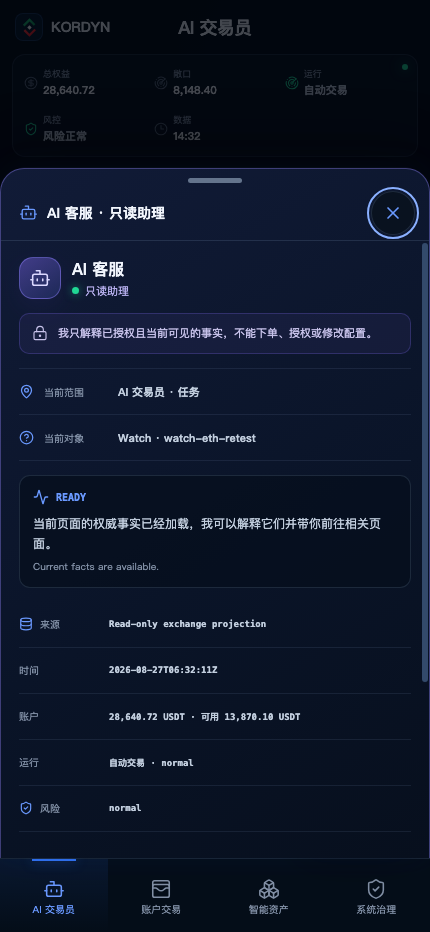
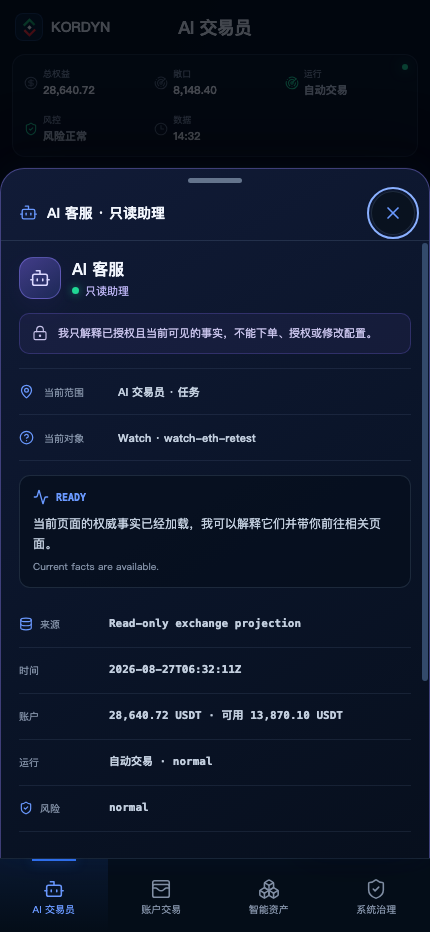
fix: complete AI support state and mobile readability

diff --git a/src/kordynV2/shell/AiSupport.jsx b/src/kordynV2/shell/AiSupport.jsx
@@ -31,7 +31,14 @@ const STATE_EXPLANATIONS = Object.freeze({
   forbidden: "当前身份无权读取这个范围。我不会展示受限对象或推断隐藏事实。",
   disabled: "当前状态禁用了页面能力。我可以解释限制，但不会绕过它。",
   loading: "权威事实仍在加载。我不会把空白解释为零或正常。",
-  not_loaded: "权威事实尚未加载。我不会根据缺失内容生成结论。"
+  not_loaded: "权威事实尚未加载。我不会根据缺失内容生成结论。",
+  empty: "当前范围没有可解释的权威事实。我不会把空结果解释为零或正常。",
+  processing: "系统正在处理当前请求。我会保留当前状态，但不会把处理中说成已完成。",
+  approval: "当前事项需要授权确认。在你确认前我只解释原因和边界，不会代你批准。",
+  partial: "当前请求只返回了部分权威结果。我会明确已完成与缺失部分，不把部分成功说成完整成功。",
+  "no-result": "当前请求尚无可验证结果。我不会根据缺失结果生成结论。",
+  "long-content": "完整权威内容已经加载。内容较长，我会保留来源与上下文，分段解释。",
+  "large-list": "完整权威列表已经加载。列表较长，我会保留范围与来源，分段解释。"
 });
 
 function SupportContent({ context, onNavigate }) {

diff --git a/tests/kordyn-v2-shell-browser.jsx b/tests/kordyn-v2-shell-browser.jsx
@@ -13,6 +13,7 @@ import {
   KORDYN_V2_EMPTY_MISSION_FIXTURE_JSON,
   KORDYN_V2_EMERGENCY_STALE_CONTRADICTION_FIXTURE_JSON,
   KORDYN_V2_KILL_NORMAL_CONTRADICTION_FIXTURE_JSON,
+  KORDYN_V2_LONG_CONTENT_FIXTURE_JSON,
   KORDYN_V2_MISSING_HEALTH_FIXTURE_JSON,
   KORDYN_V2_MOBILE_DEGRADED_FIXTURE_JSON,
   KORDYN_V2_MOBILE_DISABLED_FIXTURE_JSON,
@@ -53,6 +54,7 @@ const fixtureJson = ({
   "health-pending-false": KORDYN_V2_PENDING_FALSE_CONTRADICTION_FIXTURE_JSON,
   "health-novel-false": KORDYN_V2_NOVEL_FALSE_CONTRADICTION_FIXTURE_JSON,
   "health-normal-novel-conflict": KORDYN_V2_NORMAL_NOVEL_CONTRADICTION_FIXTURE_JSON,
+  "support-long-content": KORDYN_V2_LONG_CONTENT_FIXTURE_JSON,
   "mobile-stale": KORDYN_V2_MOBILE_STALE_FIXTURE_JSON,
   "mobile-degraded": KORDYN_V2_MOBILE_DEGRADED_FIXTURE_JSON,
   "mobile-forbidden": KORDYN_V2_MOBILE_FORBIDDEN_FIXTURE_JSON,

diff --git a/tests/kordyn-v2-production-fixture.js b/tests/kordyn-v2-production-fixture.js
@@ -109,6 +109,22 @@ export const KORDYN_V2_PRODUCTION_FIXTURE_JSON = JSON.stringify({
   ]
 });
 
+const longContentFixture = JSON.parse(KORDYN_V2_PRODUCTION_FIXTURE_JSON);
+const longContentSource = "Read-only exchange projection · regional failover checkpoint · portfolio and runtime authority from current visible sources";
+export const KORDYN_V2_LONG_CONTENT_FIXTURE_JSON = JSON.stringify({
+  ...longContentFixture,
+  revision: 66,
+  source: longContentSource,
+  resourceState: {
+    ...longContentFixture.resourceState,
+    chat: "long-content"
+  },
+  portfolio: {
+    ...longContentFixture.portfolio,
+    source: longContentSource
+  }
+});
+
 export const KORDYN_V2_UNKNOWN_FACTS_FIXTURE_JSON = JSON.stringify({
   revision: 42,
   source: "Read-only mission projection",

diff --git a/src/kordynV2/styles/mobile-shell.css b/src/kordynV2/styles/mobile-shell.css
@@ -357,7 +357,7 @@
 
   .kordynV2MobileSupportTrigger small {
     color: #bab3ec;
-    font-size: 9px;
+    font-size: 10px;
   }
 
   .kordynV2MobileSheetScrim {
@@ -447,6 +447,15 @@
   .kordynV2MobileSheet .kordynV2AiSupportSuggestions button {
     min-width: 44px;
     min-height: 52px;
+  }
+
+  .kordynV2MobileSheet .kordynV2AiSupportFacts dd,
+  .kordynV2MobileSheet .kordynV2AiSupportSuggestions small,
+  .kordynV2MobileSheet .kordynV2AiSupportSuggestions > p {
+    font-size: 11px;
+    line-height: 1.45;
+    overflow-wrap: anywhere;
+    white-space: normal;
   }
 
   .kordynV2MobileSheetIdentity {
